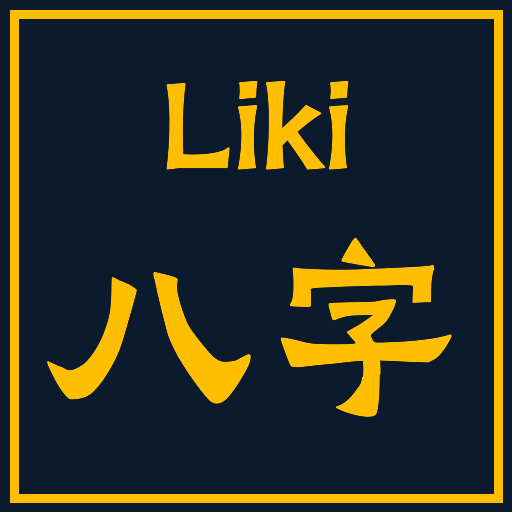
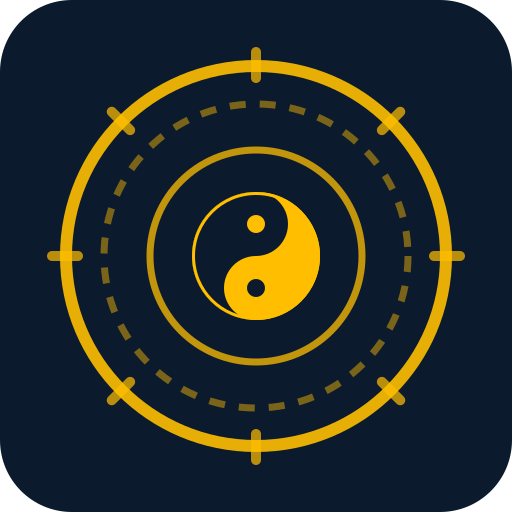
feat(workbuddy): 按域重绘专家头像与连接器图标
原状：四个专家包共用同一张「Liki 八字」占位图（md5 相同，风水/起名专家也显示「八字」），
两个连接器图标是「Liki」+ 细条的临时代用图，且 SVG 依赖 AlimamaDaoLiTi 字体、在无该字体的
渲染方会掉字形。全部重画为项目自绘矢量，按域区分，同一套视觉语言（#0C1A2E 底 + #FFBF00 线）：

- 专家头像（`expert-packs/liki-*/avatars/expert.svg` → 512×512 PNG，8-bit RGBA，10～47KB）：
  命盘（本命：十二宫环 + 星曜 + 四柱）、卦象（占卜：六爻）、罗盘与太极（风水：八向刻度 + 三环 + 太极）、
  田字格与「名」（起名）。太极按弧线组合重画并加金色描边覆盖接缝，避免描边细线
- 连接器图标（`workbuddy/liki-*-connector/icon.svg`）：共用外框，内部标记区分「盘格」（engine）
  与「定论点」（counsel）；去掉文字，64×64 下可辨且不再依赖任何字体
- `scripts/build-workbuddy-avatars.sh`（`make workbuddy-avatars`）：从 SVG 源重新栅格化，
  中文字形依赖 `AR PL UKai CN`，缺失时 fail-closed 而不是静默换字形
- `expert-packs/README.md`：头像章节改述矢量源与按域区分，「上架前待办」移除已完成项，
  端点归属决定独立成节

diff --git a/expert-packs/README.md b/expert-packs/README.md
@@ -39,10 +39,11 @@
 
 ## 头像
 
-`avatars/expert.png` 是 512×512、16-bit RGBA 的项目自有占位图：不含任何第三方素材，
-因此不附带额外许可义务。它不参与 `sync-expert-packs` 生成，四个包各自持有一份——
-替换为正式漫画/插画风头像时，同样必须使用自有或已获授权的素材，并在包 `README.md`
-记录来源。
+每个包的头像由同目录矢量源 `avatars/expert.svg` 生成（`make workbuddy-avatars` → 512×512
+PNG，8-bit RGBA，单张 ≤500KB，符合 WorkBuddy 头像规范），四个包各自一张、按域区分：
+命盘（本命）、卦象（占卜）、罗盘与太极（风水）、田字格与「名」（起名）。全部为项目自绘矢量，
+不含第三方素材，因此不附带额外许可义务。矢量源不参与 `sync-expert-packs` 生成；
+若换成人物插画，同样必须使用自有或已获授权的素材，并在包 `README.md` 记录来源。
 
 ## 校验
 
@@ -58,14 +59,17 @@
 `skills/liki/feedback.schema.json` + `skills/liki/scripts/feedback.py`）与输出契约只随根
 skill 提供，包内不重复携带。若将来要独立售卖 / 独立运行专家包，再评估抽一份包内最小运行时子集。
 
+## 端点归属
+
+运行时依赖用 `dependencies.mcpServers: "./.mcp.json"`（平台「方式一」的推荐写法），端点保持域级
+（`engine/mcp/{bazi,ziwei,liuyao,qimen,huangli,fengshui}`、`counsel/mcp/{bazi,ziwei,liuyao,qimen,naming}`），
+让每个专家只看到本域工具（`engine/cmd/engine-mcp/server.go` 的 `mcpDomains` 即为此设计）；
+连接器是聚合端点、专家包是域级端点，各自服务不同场景。`dependencies.connectors` 留给已上架连接器 ID，
+专家包不用它声明自带端点。
+
 ## 上架前待办
 
-- 头像：四个包的 `avatars/expert.png` 目前是同一张项目自有占位图（纯色 + 文字）；上架前按域各出一张正式漫画/插画风头像，市场侧才认得出是四个不同专家。
 - agent 定义：平台约定 `plugin.json.agents` 指向 `./agents/<agentName>.md` 且 `agentName` 等于该文件名（不含 `.md`），包内现指向包根 `./SKILL.md`；改法待定——由 `sync_expert_packs.py` 从身份文件投影出 `agents/<pack>.md`（身份仍是单一源），或维持现状并实测平台解析。
 - agent 定义 frontmatter：平台必填 `displayName: {en, zh}`，包内现为 `display_name` / `display_name_en` 两个平铺字符串；与上一条一并处理。
 - `version`：平台字段表写的是语义化版本，包内现为 4 段 CalVer（如 `2026.10.16.2`）；市场面版本的映射策略待定。
 - 用官方 `expert-manager` 技能逐项校验后上架。
-
-已定：运行时依赖用 `dependencies.mcpServers: "./.mcp.json"`（平台「方式一」的推荐写法），端点保持域级
-（`engine/mcp/{bazi,ziwei,liuyao,qimen,huangli,fengshui}`、`counsel/mcp/{bazi,ziwei,liuyao,qimen,naming}`），
-让每个专家只看到本域工具；`dependencies.connectors` 留给已上架连接器 ID，专家包不再用它声明自带端点。
